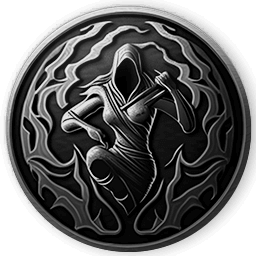
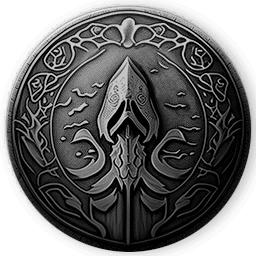
update subclass and FS sprites

diff --git a/SolastaUnfinishedBusiness/Properties/Resources.Designer.cs b/SolastaUnfinishedBusiness/Properties/Resources.Designer.cs
@@ -2042,6 +2042,16 @@ namespace SolastaUnfinishedBusiness.Properties {
         /// <summary>
         ///   Looks up a localized resource of type System.Byte[].
         /// </summary>
+        public static byte[] Interception {
+            get {
+                object obj = ResourceManager.GetObject("Interception", resourceCulture);
+                return ((byte[])(obj));
+            }
+        }
+        
+        /// <summary>
+        ///   Looks up a localized resource of type System.Byte[].
+        /// </summary>
         public static byte[] Inventor {
             get {
                 object obj = ResourceManager.GetObject("Inventor", resourceCulture);
@@ -2105,6 +2115,16 @@ namespace SolastaUnfinishedBusiness.Properties {
         public static byte[] InventorQuickWit {
             get {
                 object obj = ResourceManager.GetObject("InventorQuickWit", resourceCulture);
+                return ((byte[])(obj));
+            }
+        }
+        
+        /// <summary>
+        ///   Looks up a localized resource of type System.Byte[].
+        /// </summary>
+        public static byte[] InventorVitriolist {
+            get {
+                object obj = ResourceManager.GetObject("InventorVitriolist", resourceCulture);
                 return ((byte[])(obj));
             }
         }
@@ -2332,9 +2352,9 @@ namespace SolastaUnfinishedBusiness.Properties {
         /// <summary>
         ///   Looks up a localized resource of type System.Byte[].
         /// </summary>
-        public static byte[] MartialMarshal {
+        public static byte[] MartialGuardian {
             get {
-                object obj = ResourceManager.GetObject("MartialMarshal", resourceCulture);
+                object obj = ResourceManager.GetObject("MartialGuardian", resourceCulture);
                 return ((byte[])(obj));
             }
         }
@@ -2372,9 +2392,9 @@ namespace SolastaUnfinishedBusiness.Properties {
         /// <summary>
         ///   Looks up a localized resource of type System.Byte[].
         /// </summary>
-        public static byte[] MartialWeaponMaster {
+        public static byte[] MartialWarlord {
             get {
-                object obj = ResourceManager.GetObject("MartialWeaponMaster", resourceCulture);
+                object obj = ResourceManager.GetObject("MartialWarlord", resourceCulture);
                 return ((byte[])(obj));
             }
         }
@@ -2382,9 +2402,9 @@ namespace SolastaUnfinishedBusiness.Properties {
         /// <summary>
         ///   Looks up a localized resource of type System.Byte[].
         /// </summary>
-        public static byte[] Merciless {
+        public static byte[] MartialWeaponMaster {
             get {
-                object obj = ResourceManager.GetObject("Merciless", resourceCulture);
+                object obj = ResourceManager.GetObject("MartialWeaponMaster", resourceCulture);
                 return ((byte[])(obj));
             }
         }
@@ -2635,6 +2655,16 @@ namespace SolastaUnfinishedBusiness.Properties {
         /// <summary>
         ///   Looks up a localized resource of type System.Byte[].
         /// </summary>
+        public static byte[] PathOfTheRavager {
+            get {
+                object obj = ResourceManager.GetObject("PathOfTheRavager", resourceCulture);
+                return ((byte[])(obj));
+            }
+        }
+        
+        /// <summary>
+        ///   Looks up a localized resource of type System.Byte[].
+        /// </summary>
         public static byte[] PathOfTheReaver {
             get {
                 object obj = ResourceManager.GetObject("PathOfTheReaver", resourceCulture);
@@ -2798,16 +2828,6 @@ namespace SolastaUnfinishedBusiness.Properties {
         public static byte[] PoisonWave {
             get {
                 object obj = ResourceManager.GetObject("PoisonWave", resourceCulture);
-                return ((byte[])(obj));
-            }
-        }
-        
-        /// <summary>
-        ///   Looks up a localized resource of type System.Byte[].
-        /// </summary>
-        public static byte[] PolearmExpert {
-            get {
-                object obj = ResourceManager.GetObject("PolearmExpert", resourceCulture);
                 return ((byte[])(obj));
             }
         }
@@ -4115,6 +4135,16 @@ namespace SolastaUnfinishedBusiness.Properties {
         /// <summary>
         ///   Looks up a localized resource of type System.Byte[].
         /// </summary>
+        public static byte[] RoguishBladeCaller {
+            get {
+                object obj = ResourceManager.GetObject("RoguishBladeCaller", resourceCulture);
+                return ((byte[])(obj));
+            }
+        }
+        
+        /// <summary>
+        ///   Looks up a localized resource of type System.Byte[].
+        /// </summary>
         public static byte[] RoguishDuelist {
             get {
                 object obj = ResourceManager.GetObject("RoguishDuelist", resourceCulture);
@@ -4155,16 +4185,6 @@ namespace SolastaUnfinishedBusiness.Properties {
         /// <summary>
         ///   Looks up a localized resource of type System.Byte[].
         /// </summary>
-        public static byte[] RopeItUp {
-            get {
-                object obj = ResourceManager.GetObject("RopeItUp", resourceCulture);
-                return ((byte[])(obj));
-            }
-        }
-        
-        /// <summary>
-        ///   Looks up a localized resource of type System.Byte[].
-        /// </summary>
         public static byte[] Sanctuary {
             get {
                 object obj = ResourceManager.GetObject("Sanctuary", resourceCulture);
@@ -4188,16 +4208,6 @@ namespace SolastaUnfinishedBusiness.Properties {
         public static byte[] SearingSmite {
             get {
                 object obj = ResourceManager.GetObject("SearingSmite", resourceCulture);
-                return ((byte[])(obj));
-            }
-        }
-        
-        /// <summary>
-        ///   Looks up a localized resource of type System.Byte[].
-        /// </summary>
-        public static byte[] Sentinel {
-            get {
-                object obj = ResourceManager.GetObject("Sentinel", resourceCulture);
                 return ((byte[])(obj));
             }
         }
@@ -4238,16 +4248,6 @@ namespace SolastaUnfinishedBusiness.Properties {
         public static byte[] ShelterFromEnergy {
             get {
                 object obj = ResourceManager.GetObject("ShelterFromEnergy", resourceCulture);
-                return ((byte[])(obj));
-            }
-        }
-        
-        /// <summary>
-        ///   Looks up a localized resource of type System.Byte[].
-        /// </summary>
-        public static byte[] ShieldExpert {
-            get {
-                object obj = ResourceManager.GetObject("ShieldExpert", resourceCulture);
                 return ((byte[])(obj));
             }
         }
@@ -5038,6 +5038,16 @@ namespace SolastaUnfinishedBusiness.Properties {
         public static byte[] WizardSpellMaster {
             get {
                 object obj = ResourceManager.GetObject("WizardSpellMaster", resourceCulture);
+                return ((byte[])(obj));
+            }
+        }
+        
+        /// <summary>
+        ///   Looks up a localized resource of type System.Byte[].
+        /// </summary>
+        public static byte[] WizardWarMagic {
+            get {
+                object obj = ResourceManager.GetObject("WizardWarMagic", resourceCulture);
                 return ((byte[])(obj));
             }
         }

diff --git a/SolastaUnfinishedBusiness/Subclasses/MartialGuardian.cs b/SolastaUnfinishedBusiness/Subclasses/MartialGuardian.cs
@@ -7,6 +7,7 @@ using SolastaUnfinishedBusiness.Behaviors;
 using SolastaUnfinishedBusiness.Builders;
 using SolastaUnfinishedBusiness.Builders.Features;
 using SolastaUnfinishedBusiness.CustomUI;
+using SolastaUnfinishedBusiness.Feats;
 using SolastaUnfinishedBusiness.Interfaces;
 using SolastaUnfinishedBusiness.Models;
 using SolastaUnfinishedBusiness.Properties;
@@ -39,12 +40,12 @@ public sealed class MartialGuardian : AbstractSubclass
             .AddCustomSubFeatures(new PhysicalAttackBeforeHitConfirmedOnEnemyCompellingStrike())
             .AddToDB();
 
-        // Stalwart Front (Sentinel FS)
+        // Stalwart Front (Sentinel Feat)
 
         var proficiencySentinel = FeatureDefinitionProficiencyBuilder
             .Create($"Proficiency{Name}Sentinel")
             .SetGuiPresentation(Category.Feature)
-            .SetProficiencies(ProficiencyType.FightingStyle, "Sentinel")
+            .SetProficiencies(ProficiencyType.Feat, OtherFeats.FeatSentinel.Name)
             .AddToDB();
 
         //
@@ -133,7 +134,7 @@ public sealed class MartialGuardian : AbstractSubclass
 
         Subclass = CharacterSubclassDefinitionBuilder
             .Create(Name)
-            .SetGuiPresentation(Category.Subclass, FightingStyleDefinitions.Protection)
+            .SetGuiPresentation(Category.Subclass, Sprites.GetSprite(Name, Resources.MartialGuardian, 256))
             .AddFeaturesAtLevel(3, actionAffinityCompellingStrike, proficiencySentinel)
             .AddFeaturesAtLevel(7, savingThrowAffinityUnyielding)
             .AddFeaturesAtLevel(10, powerGrandChallenge)

diff --git a/SolastaUnfinishedBusiness/Subclasses/InnovationVitriolist.cs b/SolastaUnfinishedBusiness/Subclasses/InnovationVitriolist.cs
@@ -9,11 +9,12 @@ using SolastaUnfinishedBusiness.Behaviors.Specific;
 using SolastaUnfinishedBusiness.Builders;
 using SolastaUnfinishedBusiness.Builders.Features;
 using SolastaUnfinishedBusiness.Classes;
+using SolastaUnfinishedBusiness.CustomUI;
 using SolastaUnfinishedBusiness.Interfaces;
 using SolastaUnfinishedBusiness.Models;
+using SolastaUnfinishedBusiness.Properties;
 using static RuleDefinitions;
 using static FeatureDefinitionAttributeModifier;
-using static SolastaUnfinishedBusiness.Api.DatabaseHelper.CharacterSubclassDefinitions;
 using static SolastaUnfinishedBusiness.Api.DatabaseHelper;
 using static SolastaUnfinishedBusiness.Api.DatabaseHelper.FeatureDefinitionDamageAffinitys;
 using static SolastaUnfinishedBusiness.Api.DatabaseHelper.FeatureDefinitionPowers;
@@ -329,7 +330,7 @@ public sealed class InnovationVitriolist : AbstractSubclass
 
         Subclass = CharacterSubclassDefinitionBuilder
             .Create(Name)
-            .SetGuiPresentation(Category.Subclass, TraditionShockArcanist)
+            .SetGuiPresentation(Category.Subclass, Sprites.GetSprite(Name, Resources.InventorVitriolist, 256))
             .AddFeaturesAtLevel(3, autoPreparedSpells, featureSetMixture)
             .AddFeaturesAtLevel(5, featureSetVitriolicInfusion)
             .AddFeaturesAtLevel(9, featureSetArsenal)

diff --git a/SolastaUnfinishedBusiness/Subclasses/RoguishBladeCaller.cs b/SolastaUnfinishedBusiness/Subclasses/RoguishBladeCaller.cs
@@ -6,7 +6,9 @@ using SolastaUnfinishedBusiness.Behaviors;
 using SolastaUnfinishedBusiness.Behaviors.Specific;
 using SolastaUnfinishedBusiness.Builders;
 using SolastaUnfinishedBusiness.Builders.Features;
+using SolastaUnfinishedBusiness.CustomUI;
 using SolastaUnfinishedBusiness.Interfaces;
+using SolastaUnfinishedBusiness.Properties;
 using SolastaUnfinishedBusiness.Validators;
 using static RuleDefinitions;
 using static SolastaUnfinishedBusiness.Api.DatabaseHelper;
@@ -164,7 +166,8 @@ public sealed class RoguishBladeCaller : AbstractSubclass
             new CustomBehaviorBladeMark(conditionBladeMark, conditionBladeSurge, powerHailOfBlades));
 
         Subclass = CharacterSubclassDefinitionBuilder
-            .Create(Name).SetGuiPresentation(Category.Subclass, CharacterSubclassDefinitions.RangerSwiftBlade)
+            .Create(Name).SetGuiPresentation(Category.Subclass,
+                Sprites.GetSprite(Name, Resources.OathOfDemonHunter, 256))
             .AddFeaturesAtLevel(3, featureBladeBond, featureSetBladeMark)
             .AddFeaturesAtLevel(9, featureSetHailOfBlades)
             .AddFeaturesAtLevel(13, featureBladeSurge)

diff --git a/SolastaUnfinishedBusiness/FightingStyles/Interception.cs b/SolastaUnfinishedBusiness/FightingStyles/Interception.cs
@@ -10,6 +10,7 @@ using SolastaUnfinishedBusiness.Builders.Features;
 using SolastaUnfinishedBusiness.CustomUI;
 using SolastaUnfinishedBusiness.Interfaces;
 using SolastaUnfinishedBusiness.Models;
+using SolastaUnfinishedBusiness.Properties;
 using SolastaUnfinishedBusiness.Validators;
 using static RuleDefinitions;
 using static SolastaUnfinishedBusiness.Api.DatabaseHelper.FeatureDefinitionFightingStyleChoices;
@@ -22,7 +23,7 @@ internal sealed class Interception : AbstractFightingStyle
 
     internal override FightingStyleDefinition FightingStyle { get; } = FightingStyleBuilder
         .Create(Name)
-        .SetGuiPresentation(Category.FightingStyle, DatabaseHelper.FightingStyleDefinitions.Defense)
+        .SetGuiPresentation(Category.FightingStyle, Sprites.GetSprite(Name, Resources.Interception, 256))
         .SetFeatures(
             FeatureDefinitionPowerBuilder
                 .Create($"Power{Name}")

diff --git a/SolastaUnfinishedBusiness/Subclasses/MartialWarlord.cs b/SolastaUnfinishedBusiness/Subclasses/MartialWarlord.cs
@@ -327,7 +327,7 @@ public sealed class MartialWarlord : AbstractSubclass
 
         Subclass = CharacterSubclassDefinitionBuilder
             .Create(Name)
-            .SetGuiPresentation(Category.Subclass, Sprites.GetSprite(Name, Resources.MartialMarshal, 256))
+            .SetGuiPresentation(Category.Subclass, Sprites.GetSprite(Name, Resources.MartialWarlord, 256))
             .AddFeaturesAtLevel(3, featureBattlefieldExperience, featureSetPressTheAdvantage)
             .AddFeaturesAtLevel(7, powerStrategicRepositioning)
             .AddFeaturesAtLevel(10, featureSetCoordinatedAssault)

diff --git a/SolastaUnfinishedBusiness/Subclasses/WizardWarMagic.cs b/SolastaUnfinishedBusiness/Subclasses/WizardWarMagic.cs
@@ -139,7 +139,7 @@ public sealed class WizardWarMagic : AbstractSubclass
 
         Subclass = CharacterSubclassDefinitionBuilder
             .Create($"Wizard{Name}")
-            .SetGuiPresentation(Category.Subclass, Sprites.GetSprite(Name, Resources.WizardArcaneFighter, 256))
+            .SetGuiPresentation(Category.Subclass, Sprites.GetSprite(Name, Resources.WizardWarMagic, 256))
             .AddFeaturesAtLevel(2, featureArcaneDeflection, attributeModifierTacticalWit)
             .AddFeaturesAtLevel(6, featureSetPowerSurge)
             .AddFeaturesAtLevel(10, featureDurableMagic)

diff --git a/SolastaUnfinishedBusiness/Subclasses/PathOfTheRavager.cs b/SolastaUnfinishedBusiness/Subclasses/PathOfTheRavager.cs
@@ -101,7 +101,7 @@ public sealed class PathOfTheRavager : AbstractSubclass
 
         Subclass = CharacterSubclassDefinitionBuilder
             .Create(Name)
-            .SetGuiPresentation(Category.Subclass, CharacterSubclassDefinitions.PathBerserker)
+            .SetGuiPresentation(Category.Subclass, Sprites.GetSprite(Name, Resources.PathOfTheRavager, 256))
             .AddFeaturesAtLevel(3, additionalDamageBrutalStrike)
             .AddFeaturesAtLevel(6, PowerBerserkerMindlessRage)
             .AddFeaturesAtLevel(10, ActionAffinityRetaliation)
